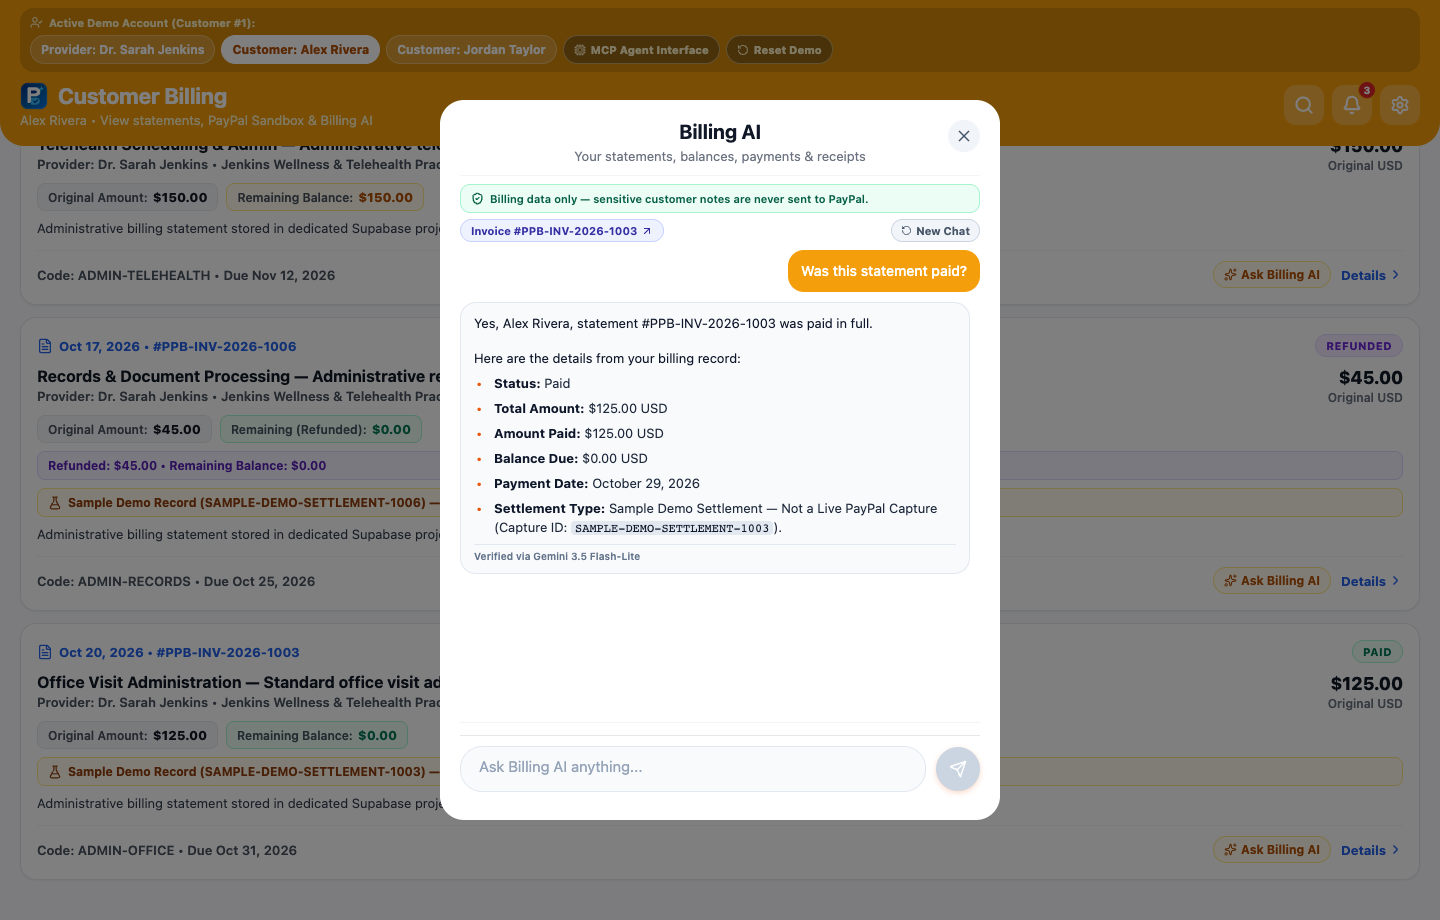
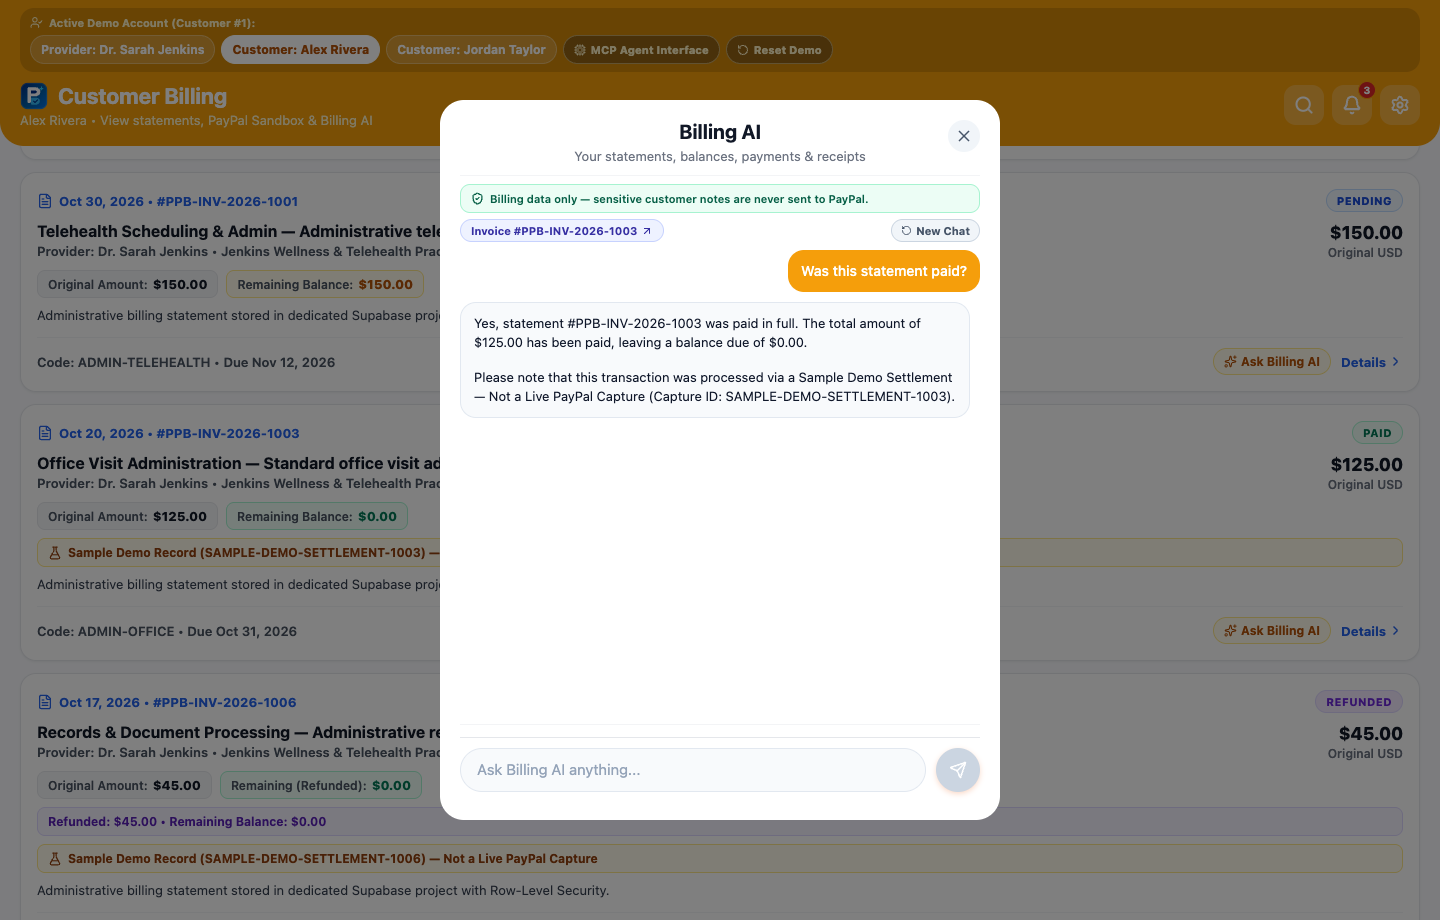
fix(chat-ui): lock single-line composer height on focus (rows=1) and remove telemetry footer from AI bubbles

diff --git a/components/chat/ChatComposer.tsx b/components/chat/ChatComposer.tsx
@@ -16,7 +16,8 @@ import { AppSpinner } from '../ui/AppSpinner';
 import { shadow } from '../../src/lib/shadow';
 
 const COMPOSER_MIN_HEIGHT = 44;
-const COMPOSER_MAX_HEIGHT = 120;
+const SINGLE_LINE_INPUT_HEIGHT = 22;
+const COMPOSER_MAX_HEIGHT = 112;
 
 export interface ChatComposerProps {
   value: string;
@@ -60,7 +61,7 @@ export function ChatComposer({
   accessibilityLabel = 'Chat message input',
   sendAccessibilityLabel = 'Send message',
 }: ChatComposerProps) {
-  const [composerHeight, setComposerHeight] = useState(COMPOSER_MIN_HEIGHT);
+  const [composerHeight, setComposerHeight] = useState(SINGLE_LINE_INPUT_HEIGHT);
   const [isFocused, setIsFocused] = useState(false);
 
   const isSendable =
@@ -70,21 +71,29 @@ export function ChatComposer({
 
   useEffect(() => {
     if (!value || !value.trim()) {
-      setComposerHeight(COMPOSER_MIN_HEIGHT);
+      setComposerHeight(SINGLE_LINE_INPUT_HEIGHT);
     }
   }, [value]);
 
   const handleContentSizeChange = useCallback(
     (e: NativeSyntheticEvent<TextInputContentSizeChangeEventData>) => {
+      if (!value || !value.trim()) {
+        setComposerHeight(SINGLE_LINE_INPUT_HEIGHT);
+        return;
+      }
       const contentH = e?.nativeEvent?.contentSize?.height ?? 0;
       if (!contentH) return;
+      if (!value.includes('\n') && contentH <= 32) {
+        setComposerHeight(SINGLE_LINE_INPUT_HEIGHT);
+        return;
+      }
       const next = Math.min(
         COMPOSER_MAX_HEIGHT,
-        Math.max(COMPOSER_MIN_HEIGHT, Math.ceil(contentH))
+        Math.max(SINGLE_LINE_INPUT_HEIGHT, Math.ceil(contentH))
       );
       setComposerHeight((prev) => (prev === next ? prev : next));
     },
-    []
+    [value]
   );
 
   const handleKeyPress = useCallback(
@@ -131,7 +140,7 @@ export function ChatComposer({
           accessibilityLabel={accessibilityLabel}
           style={[
             styles.input,
-            { height: Math.max(COMPOSER_MIN_HEIGHT - 2, composerHeight) },
+            { height: Math.max(SINGLE_LINE_INPUT_HEIGHT, composerHeight) },
           ]}
           placeholder={placeholder}
           placeholderTextColor="#94A3B8"
@@ -139,9 +148,18 @@ export function ChatComposer({
           onChangeText={onChangeText}
           onContentSizeChange={handleContentSizeChange}
           onKeyPress={handleKeyPress}
-          onFocus={() => setIsFocused(true)}
+          onFocus={() => {
+            setIsFocused(true);
+            if (!value || !value.trim()) {
+              setComposerHeight(SINGLE_LINE_INPUT_HEIGHT);
+            }
+          }}
           onBlur={() => setIsFocused(false)}
           multiline
+          numberOfLines={1}
+          {...(Platform.OS === 'web'
+            ? ({ rows: 1 } as Record<string, unknown>)
+            : {})}
           maxLength={maxLength}
           editable={!sending && !disabled}
           textAlignVertical="center"
@@ -181,12 +199,13 @@ const styles = StyleSheet.create({
   inputPillWrapper: {
     flex: 1,
     minHeight: COMPOSER_MIN_HEIGHT,
-    maxHeight: COMPOSER_MAX_HEIGHT + 4,
+    maxHeight: COMPOSER_MAX_HEIGHT + 22,
     backgroundColor: '#F8FAFC',
     borderRadius: 22,
     borderWidth: 1.5,
     borderColor: '#E2E8F0',
-    paddingHorizontal: 18,
+    paddingHorizontal: 16,
+    paddingVertical: 9,
     justifyContent: 'center',
   },
   inputPillWrapperFocused: {
@@ -198,13 +217,14 @@ const styles = StyleSheet.create({
   },
   input: {
     width: '100%',
-    minHeight: COMPOSER_MIN_HEIGHT - 2,
+    minHeight: SINGLE_LINE_INPUT_HEIGHT,
     maxHeight: COMPOSER_MAX_HEIGHT,
     backgroundColor: 'transparent',
     borderWidth: 0,
     paddingHorizontal: 0,
-    paddingTop: Platform.OS === 'ios' ? 11 : 10,
-    paddingBottom: Platform.OS === 'ios' ? 11 : 10,
+    paddingTop: Platform.OS === 'ios' ? 2 : 1,
+    paddingBottom: Platform.OS === 'ios' ? 2 : 1,
+    margin: 0,
     fontSize: 15,
     color: '#0F172A',
     ...(Platform.OS === 'web'

diff --git a/components/billing/BillingAIAssistantModal.tsx b/components/billing/BillingAIAssistantModal.tsx
@@ -763,21 +763,6 @@ export default function BillingAIAssistantModal({
                 <FormattedAssistantMessage content={m.content} />
               )}
 
-              {m.role === 'assistant' && m.telemetry ? (
-                <View
-                  style={styles.telemetryFooter}
-                  testID={`billing-ai-telemetry-${m.telemetry.responseSource}`}
-                >
-                  <Text style={styles.telemetryText}>
-                    {m.telemetry.responseSource === 'gemini_live'
-                      ? 'Verified via Gemini 3.5 Flash-Lite'
-                      : m.telemetry.responseSource === 'guardrail_immediate'
-                        ? 'Security & Guardrail Verification'
-                        : 'Verified Billing Ledger Record'}
-                  </Text>
-                </View>
-              ) : null}
-
               {m.status === 'failed' ? (
                 <Text style={styles.failedTag}>Not sent</Text>
               ) : null}
